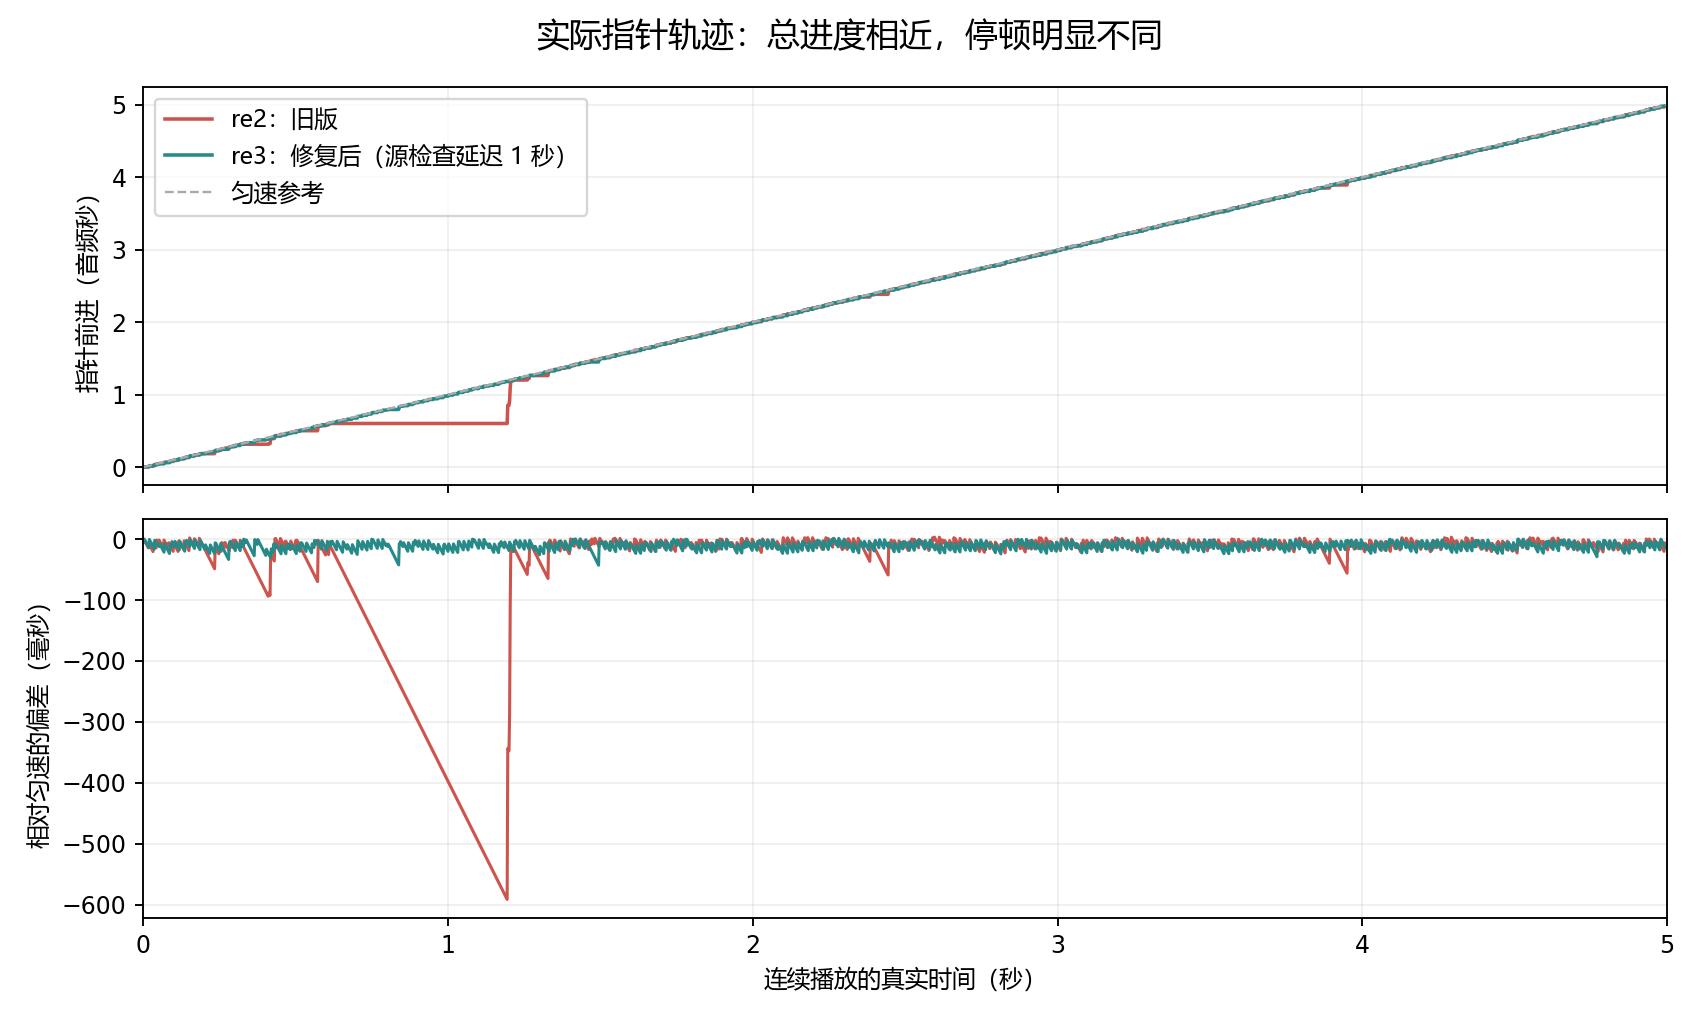
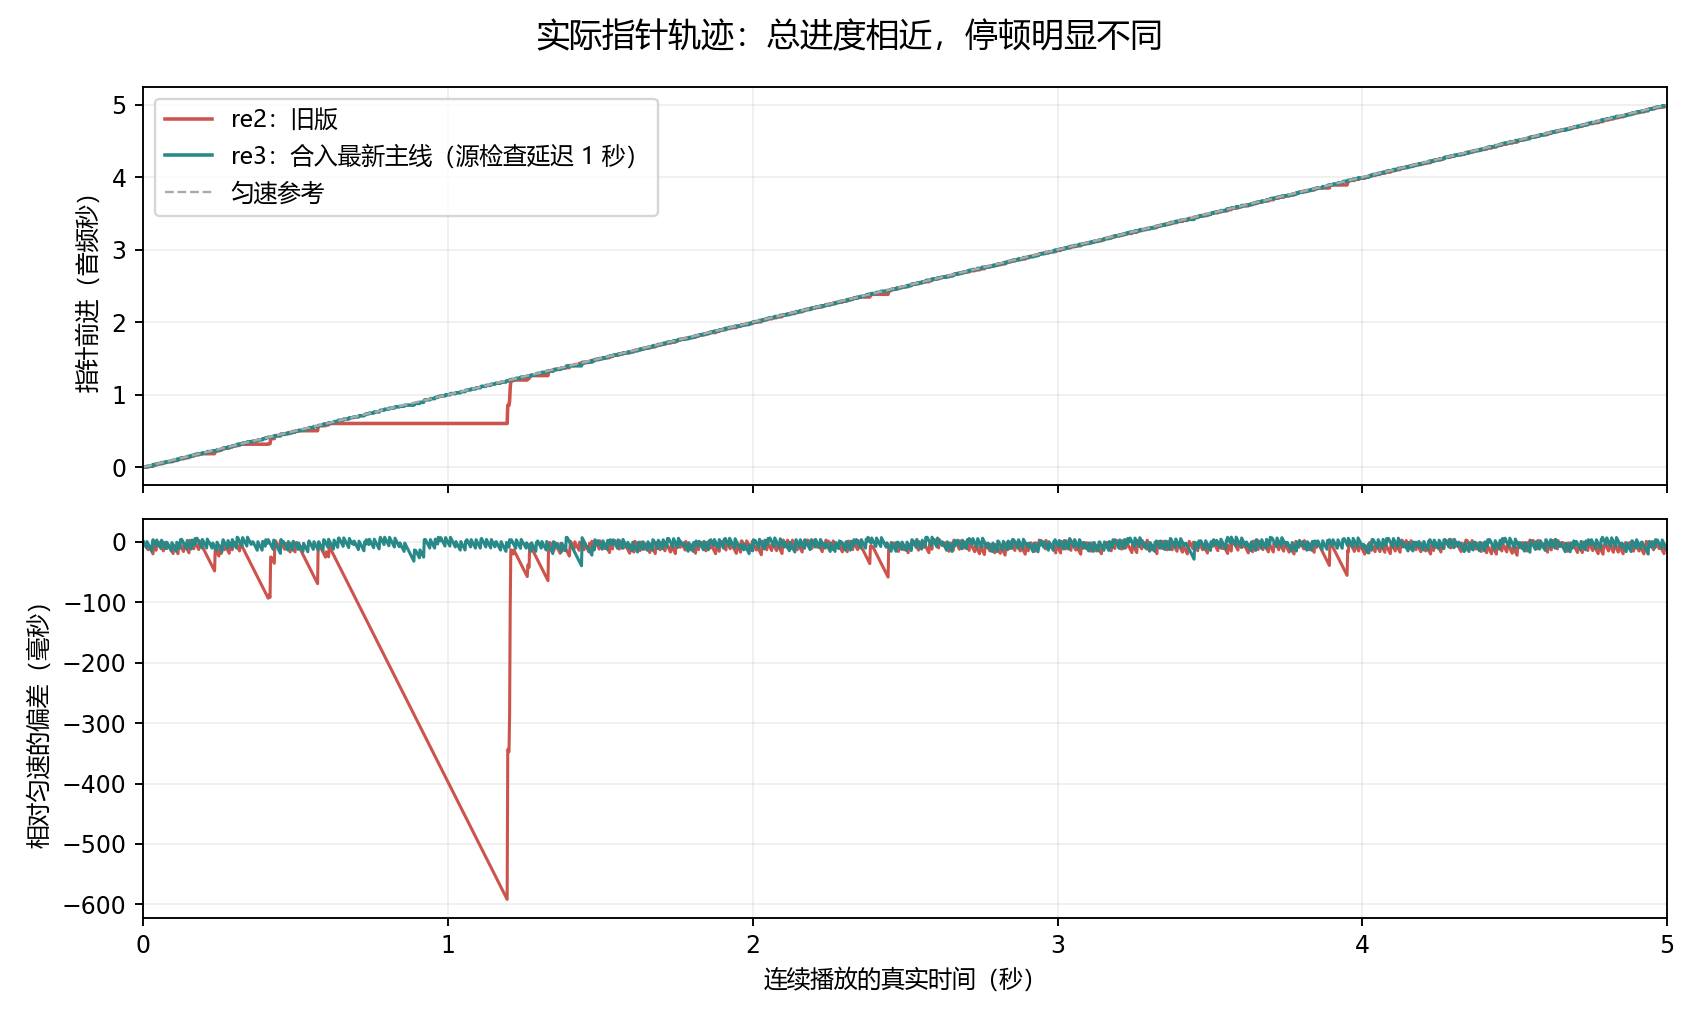
docs: record playback verification after latest main integration

diff --git a/docs/evidence/2026-10-29-playback-smoothness/verification.md b/docs/evidence/2026-10-29-playback-smoothness/verification.md
@@ -24,11 +24,11 @@
 
 | 工作负载 | 原音 1 通道 | 处理后 1 通道 | 原音 6 通道 | 处理后 6 通道 |
 | --- | ---: | ---: | ---: | ---: |
-| 项目元数据副本：实际指针位移间隔最大值 | 45.5 ms | 27.8 ms | 32.8 ms | 29.9 ms |
-| 完整合成音频及非空编辑：实际指针位移间隔最大值 | 30.9 ms | 21.4 ms | 20.8 ms | 25.5 ms |
+| 项目元数据副本：实际指针位移间隔最大值 | 48.3 ms | 28.7 ms | 27.8 ms | 26.7 ms |
+| 完整合成音频及非空编辑：实际指针位移间隔最大值 | 33.2 ms | 20.9 ms | 18.0 ms | 20.2 ms |
 | 两组缓冲欠载 | 0 | 0 | 0 | 0 |
 
-两组八段稳态均无 ≥50 ms 主线程长任务、无 ≥100 ms 位移停住段、无指针倒退；RAF 的 95 分位约 16.7 ms。播放中两次改变显示增益的最大位移间隔分别为 80.0 / 45.6 ms，原生音频代次不变、缓冲欠载为 0。主动制造的 220 ms 主线程阻塞仍会检出约 222–226 ms 的实线停顿，单独记录，不纳入稳态结果。
+两组八段稳态均无 ≥50 ms 主线程长任务、无 ≥100 ms 位移停住段、无指针倒退；RAF 的 95 分位约 16.7 ms。播放中两次改变显示增益的最大位移间隔分别为 81.2 / 38.4 ms，原生音频代次不变、缓冲欠载为 0。主动制造的 220 ms 主线程阻塞仍会检出约 233–237 ms 的实线停顿，单独记录，不纳入稳态结果。
 
 元数据副本包含 1797 条目录记录（含回收站）。只有所播的真实音频副本及六通道合成音频有效，其余 1792 个源是匹配字节长度的占位文件，仅用于复现目录/UI 负载；未播放占位文件，不能据此声称导入了 1797 条真实音频。原用户项目只读，所有测试写入独占副本。
 
@@ -46,8 +46,16 @@
 原始证据位于独占本机输出目录，不提交包含用户项目元数据的报告：
 
 - `.test-output/playhead-video`：录像轨迹、构建、完整测试、失败候选及最终日志。
-- `D:/Work/annotator/.test-output/playhead-runtime/final-recorded-delay-Pq7uR6/report.json`：元数据副本、源检查延迟。
-- `D:/Work/annotator/.test-output/playhead-runtime/final-processed-delay-XQfrQm/report.json`：877 条有效音频及非空处理。
+- `D:/Work/annotator/.test-output/playhead-runtime/integrated-recorded-delay-NcgqqU/report.json`：元数据副本、源检查延迟。
+- `D:/Work/annotator/.test-output/playhead-runtime/integrated-processed-delay-onF6mk/report.json`：877 条有效音频及非空处理。
 - `review-processing/desktop-Lvg1Hu/report.json`、`review-usability/desktop-xePkqG/report.json`：同一输出根下的查看组合检查。
 
-没有声学回环采集；消费帧、原生时间和零欠载不能证明每种声卡/驱动/NAS 条件都绝无物理输出停顿。没有声称执行全部历史桌面发布套件，也没有覆盖安装或改动用户项目。此次不改变音频切换黑屏、类别治理、评价/复标或导入去重。
+没有声学回环采集；消费帧、原生时间和零欠载不能证明每种声卡/驱动/NAS 条件都绝无物理输出停顿。没有声称执行全部历史桌面发布套件，也没有覆盖安装或改动用户项目。播放修复本身不改变音频切换黑屏、类别治理、评价/复标或导入去重。交付包含下述已合入主线的去重更新。
+
+## 主线合并后的交付复验
+
+在制作安装包期间，PR #9 与导入去重 PR #13 已合入主线。因此交付重新合并 `69e9a6d`，没有发布基于旧主线生成的早期包。此次仅集成已有主线去重实现，播放补丁本身没有重写导入逻辑。
+
+合并后重新执行：前端 118 文件 / 1188 项全部通过，Rust 工作区 604 项通过 / 9 项既有忽略；类型检查与桌面构建通过。上表和轨迹图已替换为本次合并后数据，两组计时检查分别 39 / 41 项通过，仍包含 1 秒源检查延迟、实际重绘、增益、定位、循环、结束及所有者替换。两种音频的数值探针仍为 −141.5834 dB / −6 dB。合并后的查看处理 3 组通过（`integrated-review-processing/desktop-H99KY4/report.json`），此前查看可用性 15 组结果保留，不声称其在合并后全部重跑。
+
+早期计时与失败候选继续保留在本机输出中。正常安装包、四个直接更新包和 NAS 发布使用新的集成交付目录 `D:/Work/annotator/.test-output/production-078-re3-integrated-20261029`，依据其源码摘要、生产入口检查、ZIP 条目及发布回读结果完成交付。

diff --git a/docs/release-notes-0.7.8-re3.md b/docs/release-notes-0.7.8-re3.md
@@ -5,8 +5,10 @@
 - 频谱按短任务绘制，所有通道共用帧预算；保持原有采样、频率映射、像素尺寸及颜色计算。绘制完成前显示真实忙碌状态。
 - 音频列表仅更新改变的行，复用相同的切换菜单和刻度；白色播放线使用独立动画与合成变换，不增加音频时钟预测时长。
 
-在 1797 条目录记录的独立副本中，模拟每次源检查延迟 1 秒，四种原音/处理后、单声道/六通道播放的实际指针更新间隔最大约 28–46 ms，未出现 100 ms 以上的停住段。旧版同一目录负载测得一次约 587 ms 停顿。另在 877 条完整合成音频、含真实屏蔽和 −6 dB 增益的项目中，间隔最大约 21–31 ms。测试均未记录到缓冲欠载；没有进行声卡回环录音，不能据此保证所有设备与网络环境绝对无卡顿。
+在 1797 条目录记录的独立副本中，模拟每次源检查延迟 1 秒，四种原音/处理后、单声道/六通道播放的实际指针更新间隔最大约 27–48 ms，未出现 100 ms 以上的停住段。旧版同一目录负载测得一次约 587 ms 停顿。另在 877 条完整合成音频、含真实屏蔽和 −6 dB 增益的项目中，间隔最大约 18–33 ms。测试均未记录到缓冲欠载；没有进行声卡回环录音，不能据此保证所有设备与网络环境绝对无卡顿。
 
 项目、作者层、目录、回收站和交换格式保持兼容；没有迁移用户数据或改动原音频。切换音频短暂黑屏仍按此前约定暂缓。内部数字版本仍为 0.7.8，修订名为 re3；0.7.8 原版、re1、re2 均可使用对应的 0.7.8 直接更新包。
 
 完整验证与限制：[验证记录](evidence/2026-10-29-playback-smoothness/verification.md)。更新前保存并同步，关闭程序后安装或完整覆盖程序目录，保留项目和个人数据位置。
+
+最终交付已同步主线 PR #13 的导入去重更新，保留其默认跳过已有导入目标的行为。合并后重新通过 1188 项前端测试和 604 项 Rust 测试。
